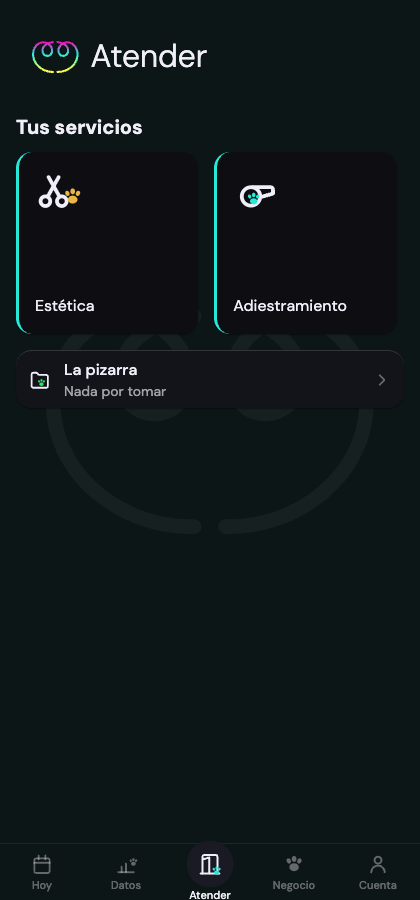
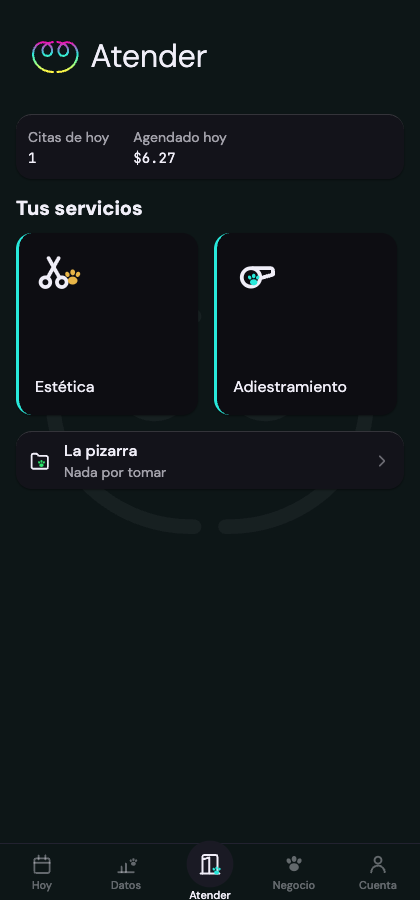
feat(s98-c): la BANDA DEL DIA en la portada de ATENDER — con lo que es verdad, y su hueco declarado
🔴 LA ORDEN PEDIA «servicios prestados hoy · cobrado hoy» Y NINGUNO DE
LOS DOS TIENE LECTOR HONESTO HOY. Medido antes de construir:

  · «cobrado hoy» — `cobro_presencial_registrado` tiene ESCRITOR y CERO
    lectores en `packages/api` (2 filas vivas, 0 de hoy). No hay de donde.
  · «prestados hoy» — lo unico que cuenta citas del dia cuenta las VIVAS,
    que es lo agendado, no lo prestado.

Y el lector que SI existe dice explicitamente que no es eso, en su propia
cabecera: «PLATA = el valor AGENDADO del dia. NO lo devengado, NO lo
cobrado. Contesta ¿cuanto vale mi jornada?, no ¿cuanto llevo cobrado?».

⇒ ROTULAR «cobrado» ESE NUMERO SERIA UN VEROSIMIL-FALSO DE PLATA — la
clase de defecto mas cara de la casa, porque nadie audita un numero que
parece razonable. **La banda muestra lo que hay con el nombre de lo que
es**: «Citas de hoy» y «Agendado hoy». Los dos numeros pedidos entran
cuando existan sus lectores (pedido a A con contrato y gate §4ter).

§4ter RESPETADA SIN RECOMPONER NADA: el gate vive en el SERVIDOR y esta
pantalla pinta lo que la RPC contesta. `visible:false` no dibuja; el
FALLO dice que es fallo y jamas un cero (un cero con cara de dato diria
«hoy no hubo nada» y lo que paso fue que no pudimos preguntar); y con
citas sin precio el total DECLARA que es parcial.

CERO PIEZA NUEVA, y es economia deliberada: `Tarjeta` + dos `FilaDato`
—etiqueta sobre valor, `mono` para el importe— ya son exactamente esto.
[…]

diff --git a/apps/prestador/src/app/(tabs)/atender.tsx b/apps/prestador/src/app/(tabs)/atender.tsx
@@ -32,6 +32,7 @@ import {
   Baldosa,
   Boton,
   CeldaNavegacion,
+  FilaDato,
   Encabezado,
   Separador,
   Tarjeta,
@@ -43,13 +44,15 @@ import {
   spacing,
   useTheme,
 } from '@epetplace/ui';
-import { obtenerMiPrestador, obtenerPizarra } from '@epetplace/api';
+import { obtenerMiPrestador, obtenerPizarra, obtenerPlataDelDia, type PlataDelDia } from '@epetplace/api';
+import { montoCorto } from '@/lib/formato-techo';
 
 import {
   hayCapacidad,
   resolverCapacidadAtender,
   type CapacidadAtender,
 } from '@/lib/capacidad-atender';
+import { hoyLocalISO } from '@/lib/ventas-formato';
 import { useTraduccion } from '@/i18n';
 
 /** El glifo de cada puerta. `training` es el nombre del registry para
@@ -107,7 +110,15 @@ type Pantalla =
   // El error DICE su causa y ofrece reintentar (Ley 13 / regla 36): un
   // fallo de lectura jamás se disfraza de «este negocio no atiende».
   | { fase: 'error'; detalle: string }
-  | { fase: 'listo'; capacidad: CapacidadAtender; pizarra: number | null };
+  | {
+      fase: 'listo';
+      capacidad: CapacidadAtender;
+      pizarra: number | null;
+      /** `null` = no se pudo leer. **NO se degrada a cero**: un cero con
+       *  cara de dato diría «hoy no hay nada», y lo que pasó fue que no
+       *  pudimos preguntar (L-197, y el propio contrato del lector). */
+      plata: PlataDelDia | null;
+    };
 
 export default function Atender() {
   const router = useRouter();
@@ -127,9 +138,20 @@ export default function Atender() {
            lecturas y una sola espera. Su fallo NO tumba la portada —las
            puertas del mostrador no dependen de ella— y `null` NO se pinta
            como cero: la regla de S86 se muda entera con la superficie. */
-        const [c, pz] = await Promise.all([resolverCapacidadAtender(p.data.id), obtenerPizarra(p.data.id)]);
+        const [c, pz, pl] = await Promise.all([
+          resolverCapacidadAtender(p.data.id),
+          obtenerPizarra(p.data.id),
+          // §4ter: el gate vive en el SERVIDOR. Acá no se recompone ningún
+          // permiso — se pinta lo que la RPC contesta.
+          obtenerPlataDelDia(p.data.id, hoyLocalISO()),
+        ]);
         return c.ok
-          ? { fase: 'listo' as const, capacidad: c.data, pizarra: pz.ok ? pz.data.length : null }
+          ? {
+              fase: 'listo' as const,
+              capacidad: c.data,
+              pizarra: pz.ok ? pz.data.length : null,
+              plata: pl.ok ? pl.data : null,
+            }
           : { fase: 'error' as const, detalle: c.mensaje };
       })()
         .catch((e: unknown) => ({
@@ -188,7 +210,7 @@ export default function Atender() {
     );
   }
 
-  const { capacidad, pizarra } = pantalla;
+  const { capacidad, pizarra, plata } = pantalla;
 
   return (
     <View style={{ flex: 1, backgroundColor: theme.bg.base }}>
@@ -201,6 +223,50 @@ export default function Atender() {
         }}
       >
         <Encabezado variante="portada" saludo={t('atender.titulo')} />
+
+        {/* ⭐ S98-C · LA BANDA DEL DÍA (orden de la mesa, gate del founder).
+            Compacta, arriba de las baldosas, y **legal por §4ter**: la
+            plata del día y NADA MÁS — su gate vive en el SERVIDOR
+            (`obtener_plata_del_dia`), acá no se recompone ningún permiso.
+
+            🔴 **LO QUE ESTA BANDA NO DICE, Y POR QUÉ — se declara para que
+            nadie lea otra cosa en estos números.** La orden pedía
+            *«servicios prestados hoy · cobrado hoy»* y **hoy no existe
+            lector honesto de ninguno de los dos** (medido, S98-C):
+
+             · **«cobrado hoy»** — `cobro_presencial_registrado` tiene
+               ESCRITOR y **cero lectores** en `packages/api` (2 filas
+               vivas). No hay de dónde leerlo.
+             · **«prestados hoy»** — lo que existe cuenta citas VIVAS del
+               día, que es lo agendado, no lo prestado.
+
+            Y el lector que sí existe **dice explícitamente que no es eso**:
+            *«PLATA = el valor AGENDADO del día. NO lo devengado, NO lo
+            cobrado. Contesta ¿cuánto vale mi jornada?, no ¿cuánto llevo
+            cobrado?»*. **Rotular «cobrado» este número sería un
+            verosímil-falso de PLATA** — la clase de defecto más cara de la
+            casa, porque nadie audita un número que parece razonable.
+
+            ⇒ **La banda muestra lo que hay, con el nombre de lo que es.**
+            Los dos números pedidos entran cuando A entregue sus lectores
+            (pedido cursado con contrato y su gate §4ter). */}
+        {plata !== null && plata.visible && (
+          <Tarjeta relleno="normal">
+            <View style={{ flexDirection: 'row', gap: spacing[6] }}>
+              <FilaDato etiqueta={t('atender.bandaCitas')} valor={String(plata.citas ?? 0)} mono />
+              <FilaDato etiqueta={t('atender.bandaAgendado')} valor={montoCorto(plata.total ?? 0)} mono />
+            </View>
+            {/* El total DECLARA lo que le falta: con citas sin precio es
+                PARCIAL, y callarlo sería mentir por omisión con un número
+                redondo (contrato del lector, L-197). */}
+            {(plata.sinPrecio ?? 0) > 0 && (
+              <Texto variante="apoyo">{t('atender.bandaParcial', { n: plata.sinPrecio ?? 0 })}</Texto>
+            )}
+          </Tarjeta>
+        )}
+        {/* El fallo de lectura DICE que es fallo — jamás un cero, que se
+            leería como «hoy no hubo nada» (Ley 13). */}
+        {plata === null && <Texto variante="apoyo">{t('atender.bandaNoSePudo')}</Texto>}
 
         {/* N9 — EL VACÍO HABLA. Se llega acá con la capacidad leída y en
             cero: la tab no se monta sin capacidad, así que este estado es

diff --git a/apps/prestador/src/i18n/es.ts b/apps/prestador/src/i18n/es.ts
@@ -32,6 +32,13 @@ export const prestadorEs = {
     // posesivos, que es como habla el resto de la app del prestador.
     tusServicios: 'Tus servicios',
     tuTienda: 'Tu tienda',
+    // ⭐ S98-C · LA BANDA DEL DÍA. Los rótulos dicen QUÉ ES cada número:
+    // «agendado» y no «cobrado», porque el lector es del valor agendado y
+    // rotularlo distinto sería un verosímil-falso de plata.
+    bandaCitas: 'Citas de hoy',
+    bandaAgendado: 'Agendado hoy',
+    bandaParcial: 'El total es parcial: {{n}} de hoy todavía no tienen precio.',
+    bandaNoSePudo: 'No pudimos leer los números de hoy.',
     oficioVeterinaria: 'Veterinaria',
     oficioGrooming: 'Estética',
     oficioPaseo: 'Paseo',

diff --git a/apps/prestador/src/i18n/en.ts b/apps/prestador/src/i18n/en.ts
@@ -24,6 +24,11 @@ export const prestadorEn = {
     titulo: 'Attend',
     tusServicios: 'Your services',
     tuTienda: 'Your store',
+    // S98-C · Espejo de es.ts.
+    bandaCitas: 'Appointments today',
+    bandaAgendado: 'Booked today',
+    bandaParcial: 'The total is partial: {{n}} today have no price yet.',
+    bandaNoSePudo: 'We could not read today’s numbers.',
     oficioVeterinaria: 'Veterinary',
     oficioGrooming: 'Grooming',
     oficioPaseo: 'Walking',
